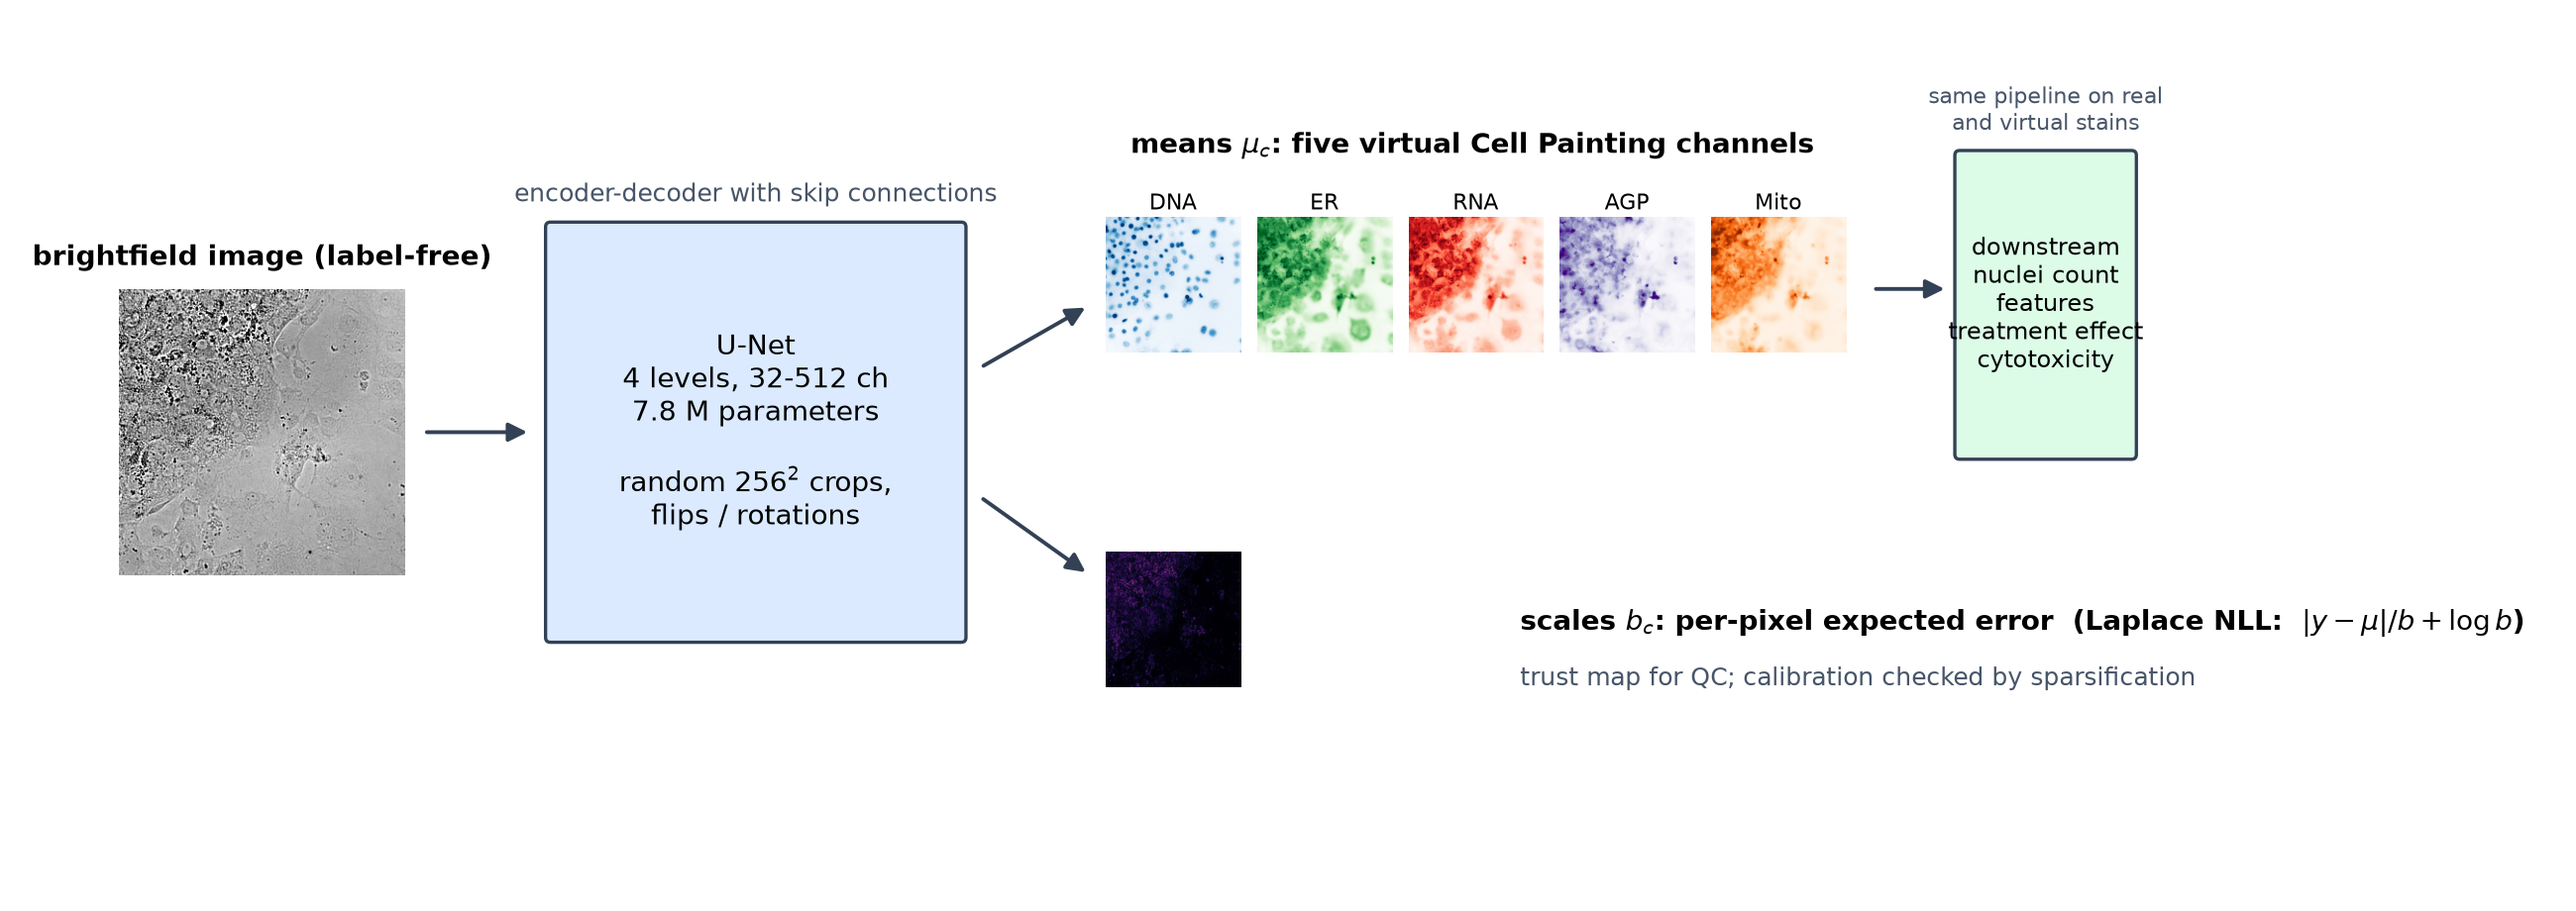
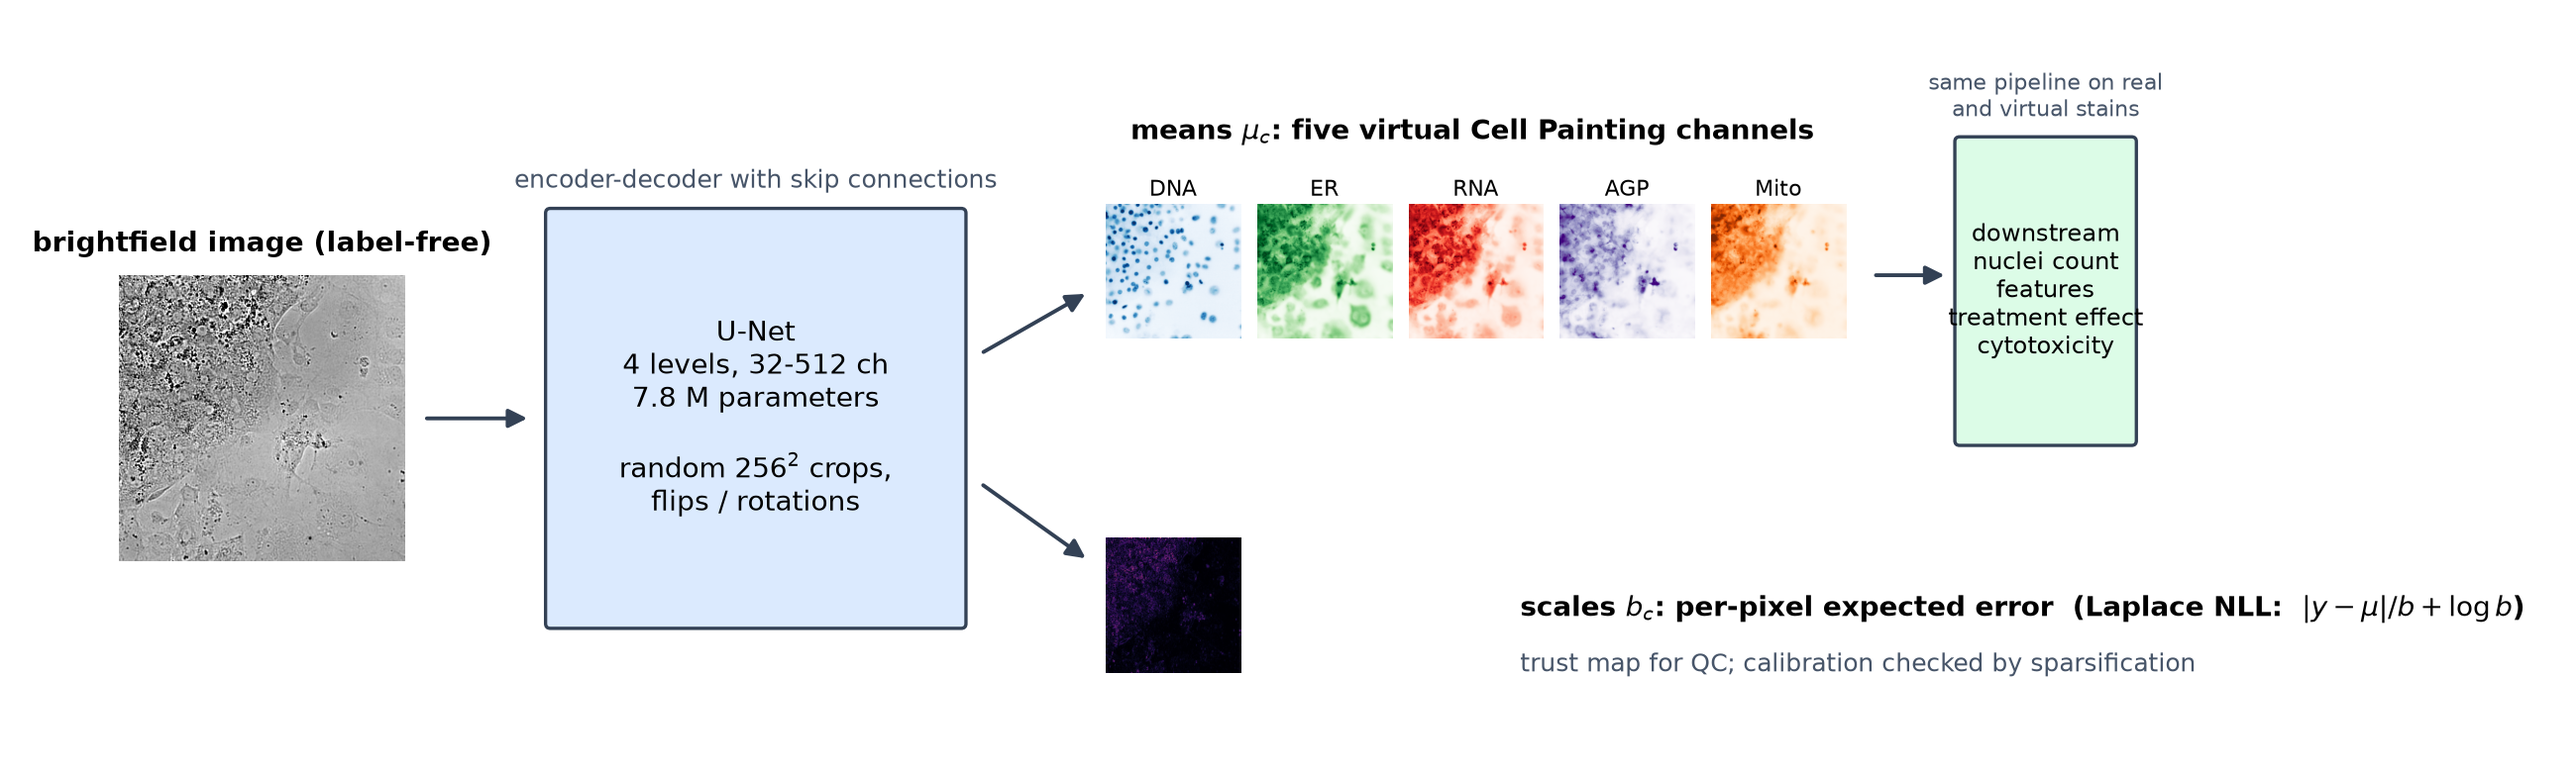
Method figure layout, Axiom data description

diff --git a/docs/figures/make_method_fig.py b/docs/figures/make_method_fig.py
@@ -28,9 +28,9 @@ def arrow(ax, x0, y0, x1, y1):
 
 
 def main(field_npy: str | None = None, out: str = "docs/figures/fig_method.png"):
-    fig, ax = plt.subplots(figsize=(13, 4.6))
+    fig, ax = plt.subplots(figsize=(13, 3.9))
     ax.set_xlim(0, 13)
-    ax.set_ylim(0, 4.6)
+    ax.set_ylim(0.7, 4.6)
     ax.axis("off")
     # input thumbnail
     if field_npy and Path(field_npy).exists():
